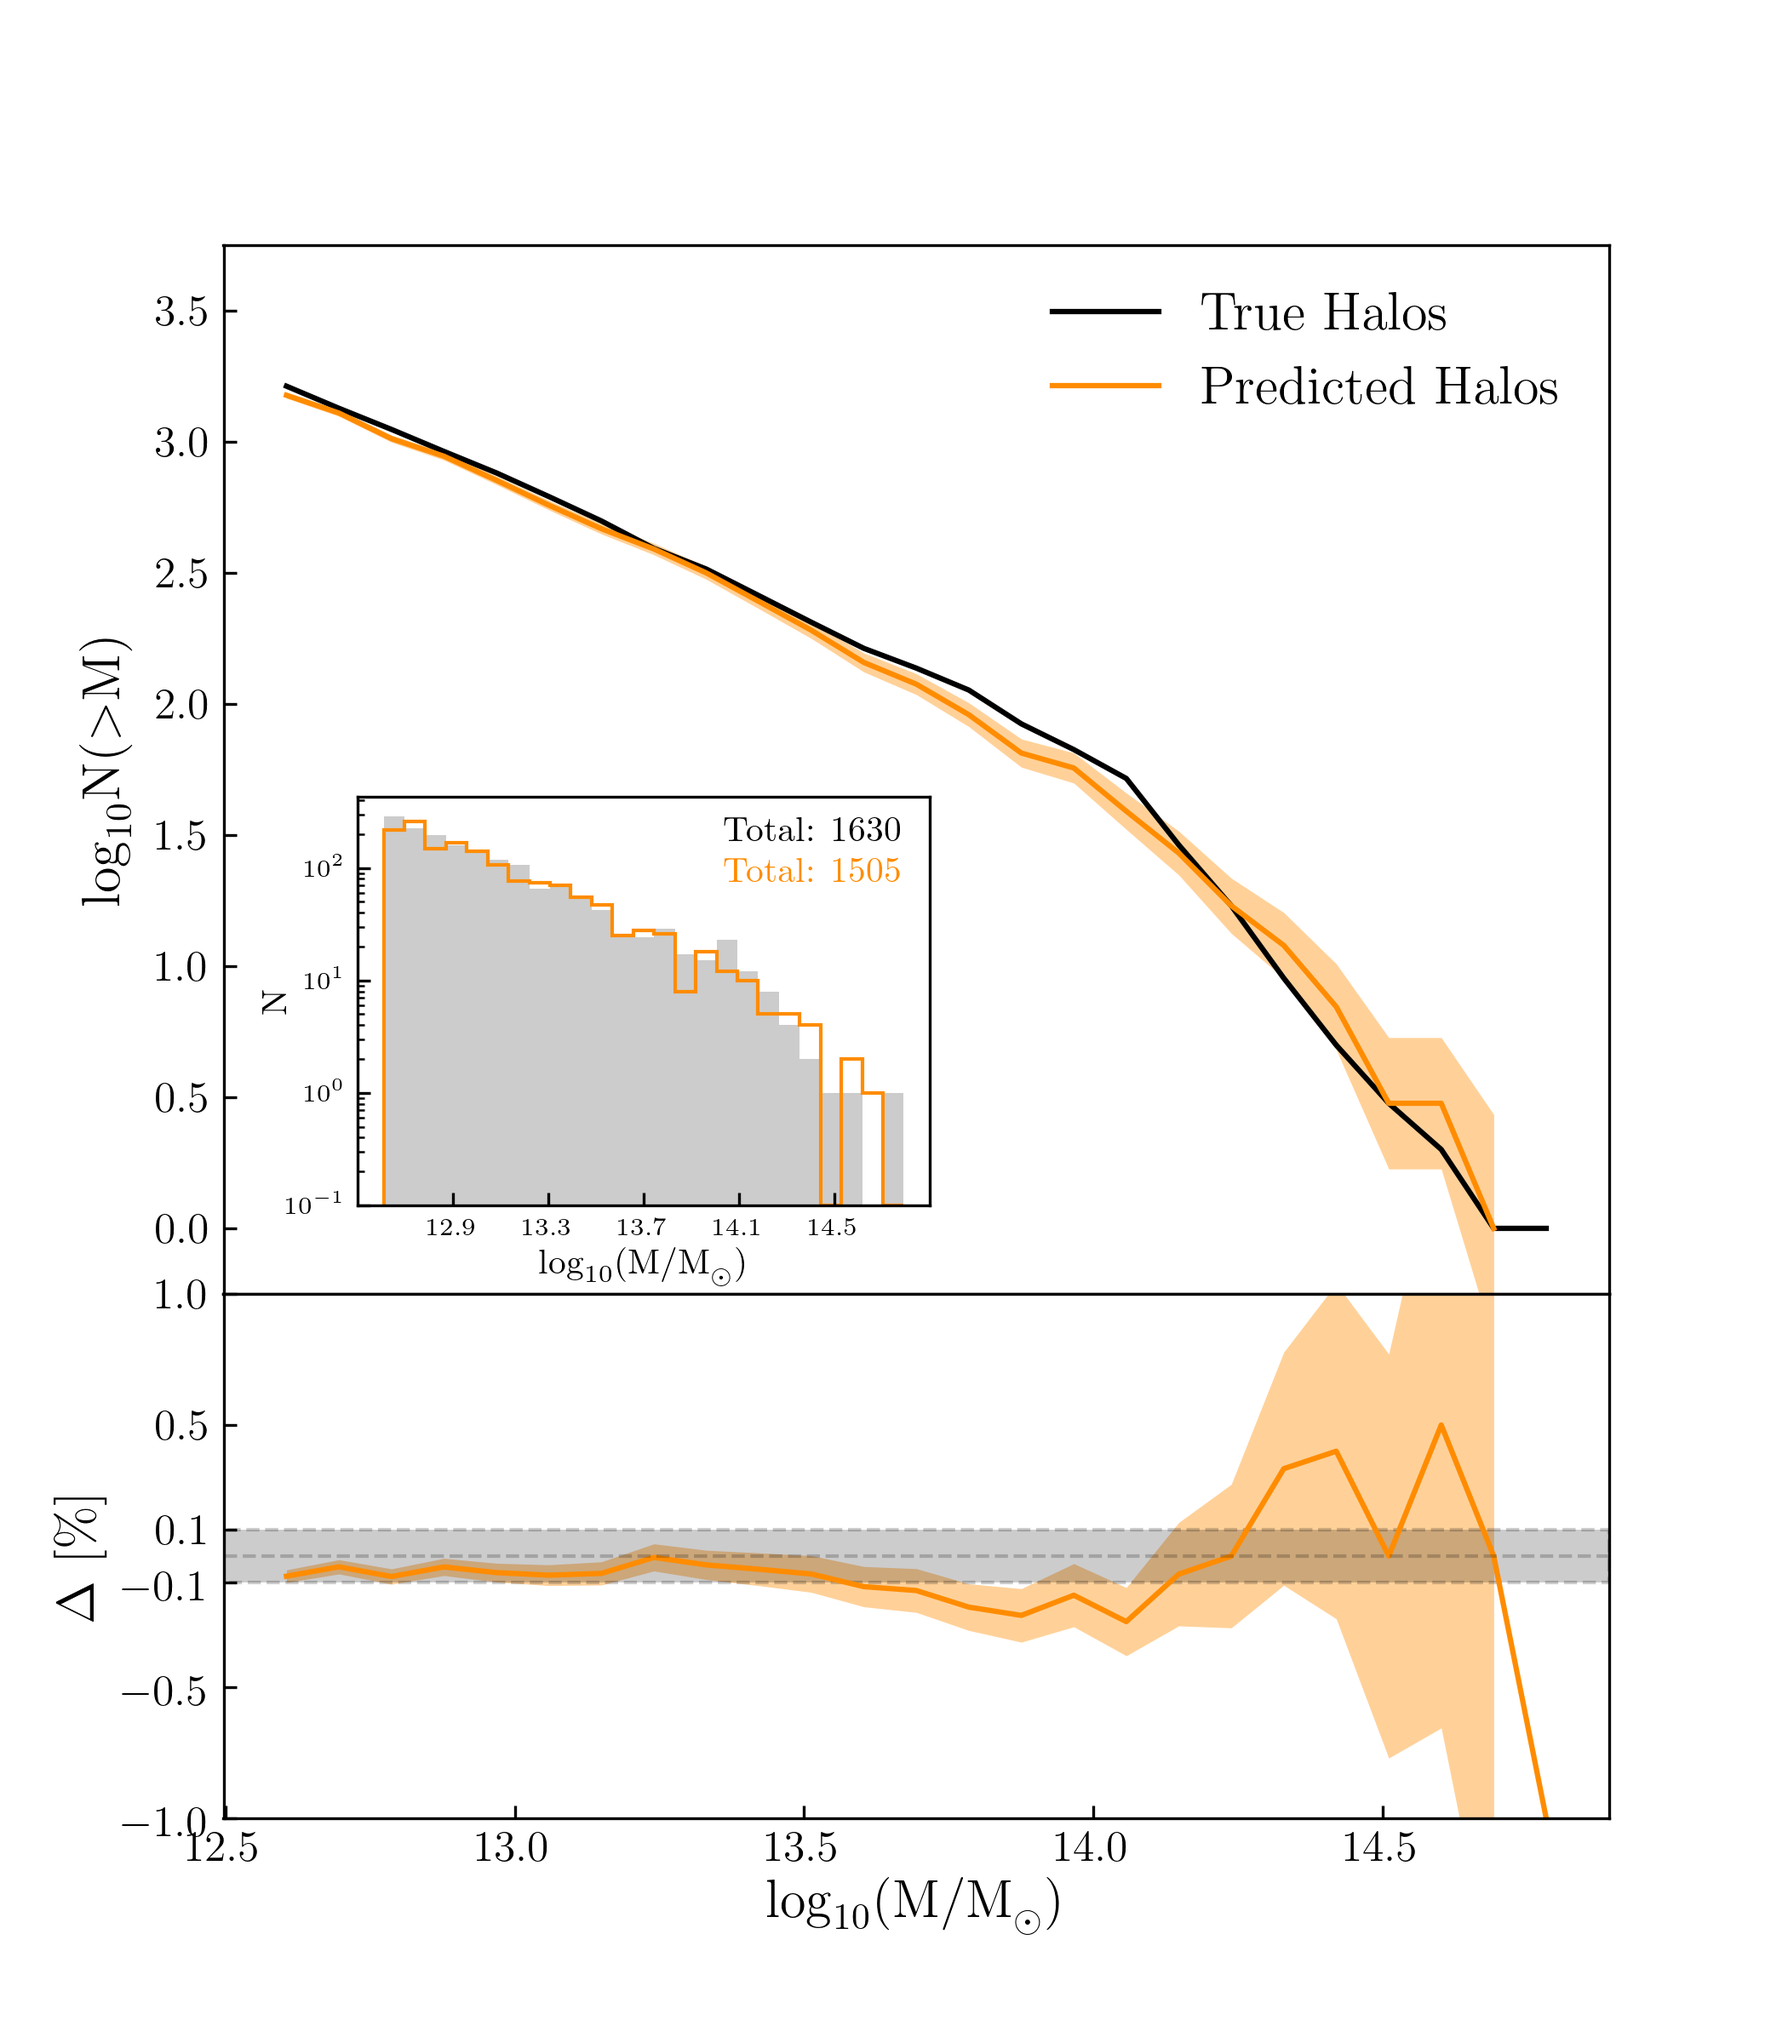
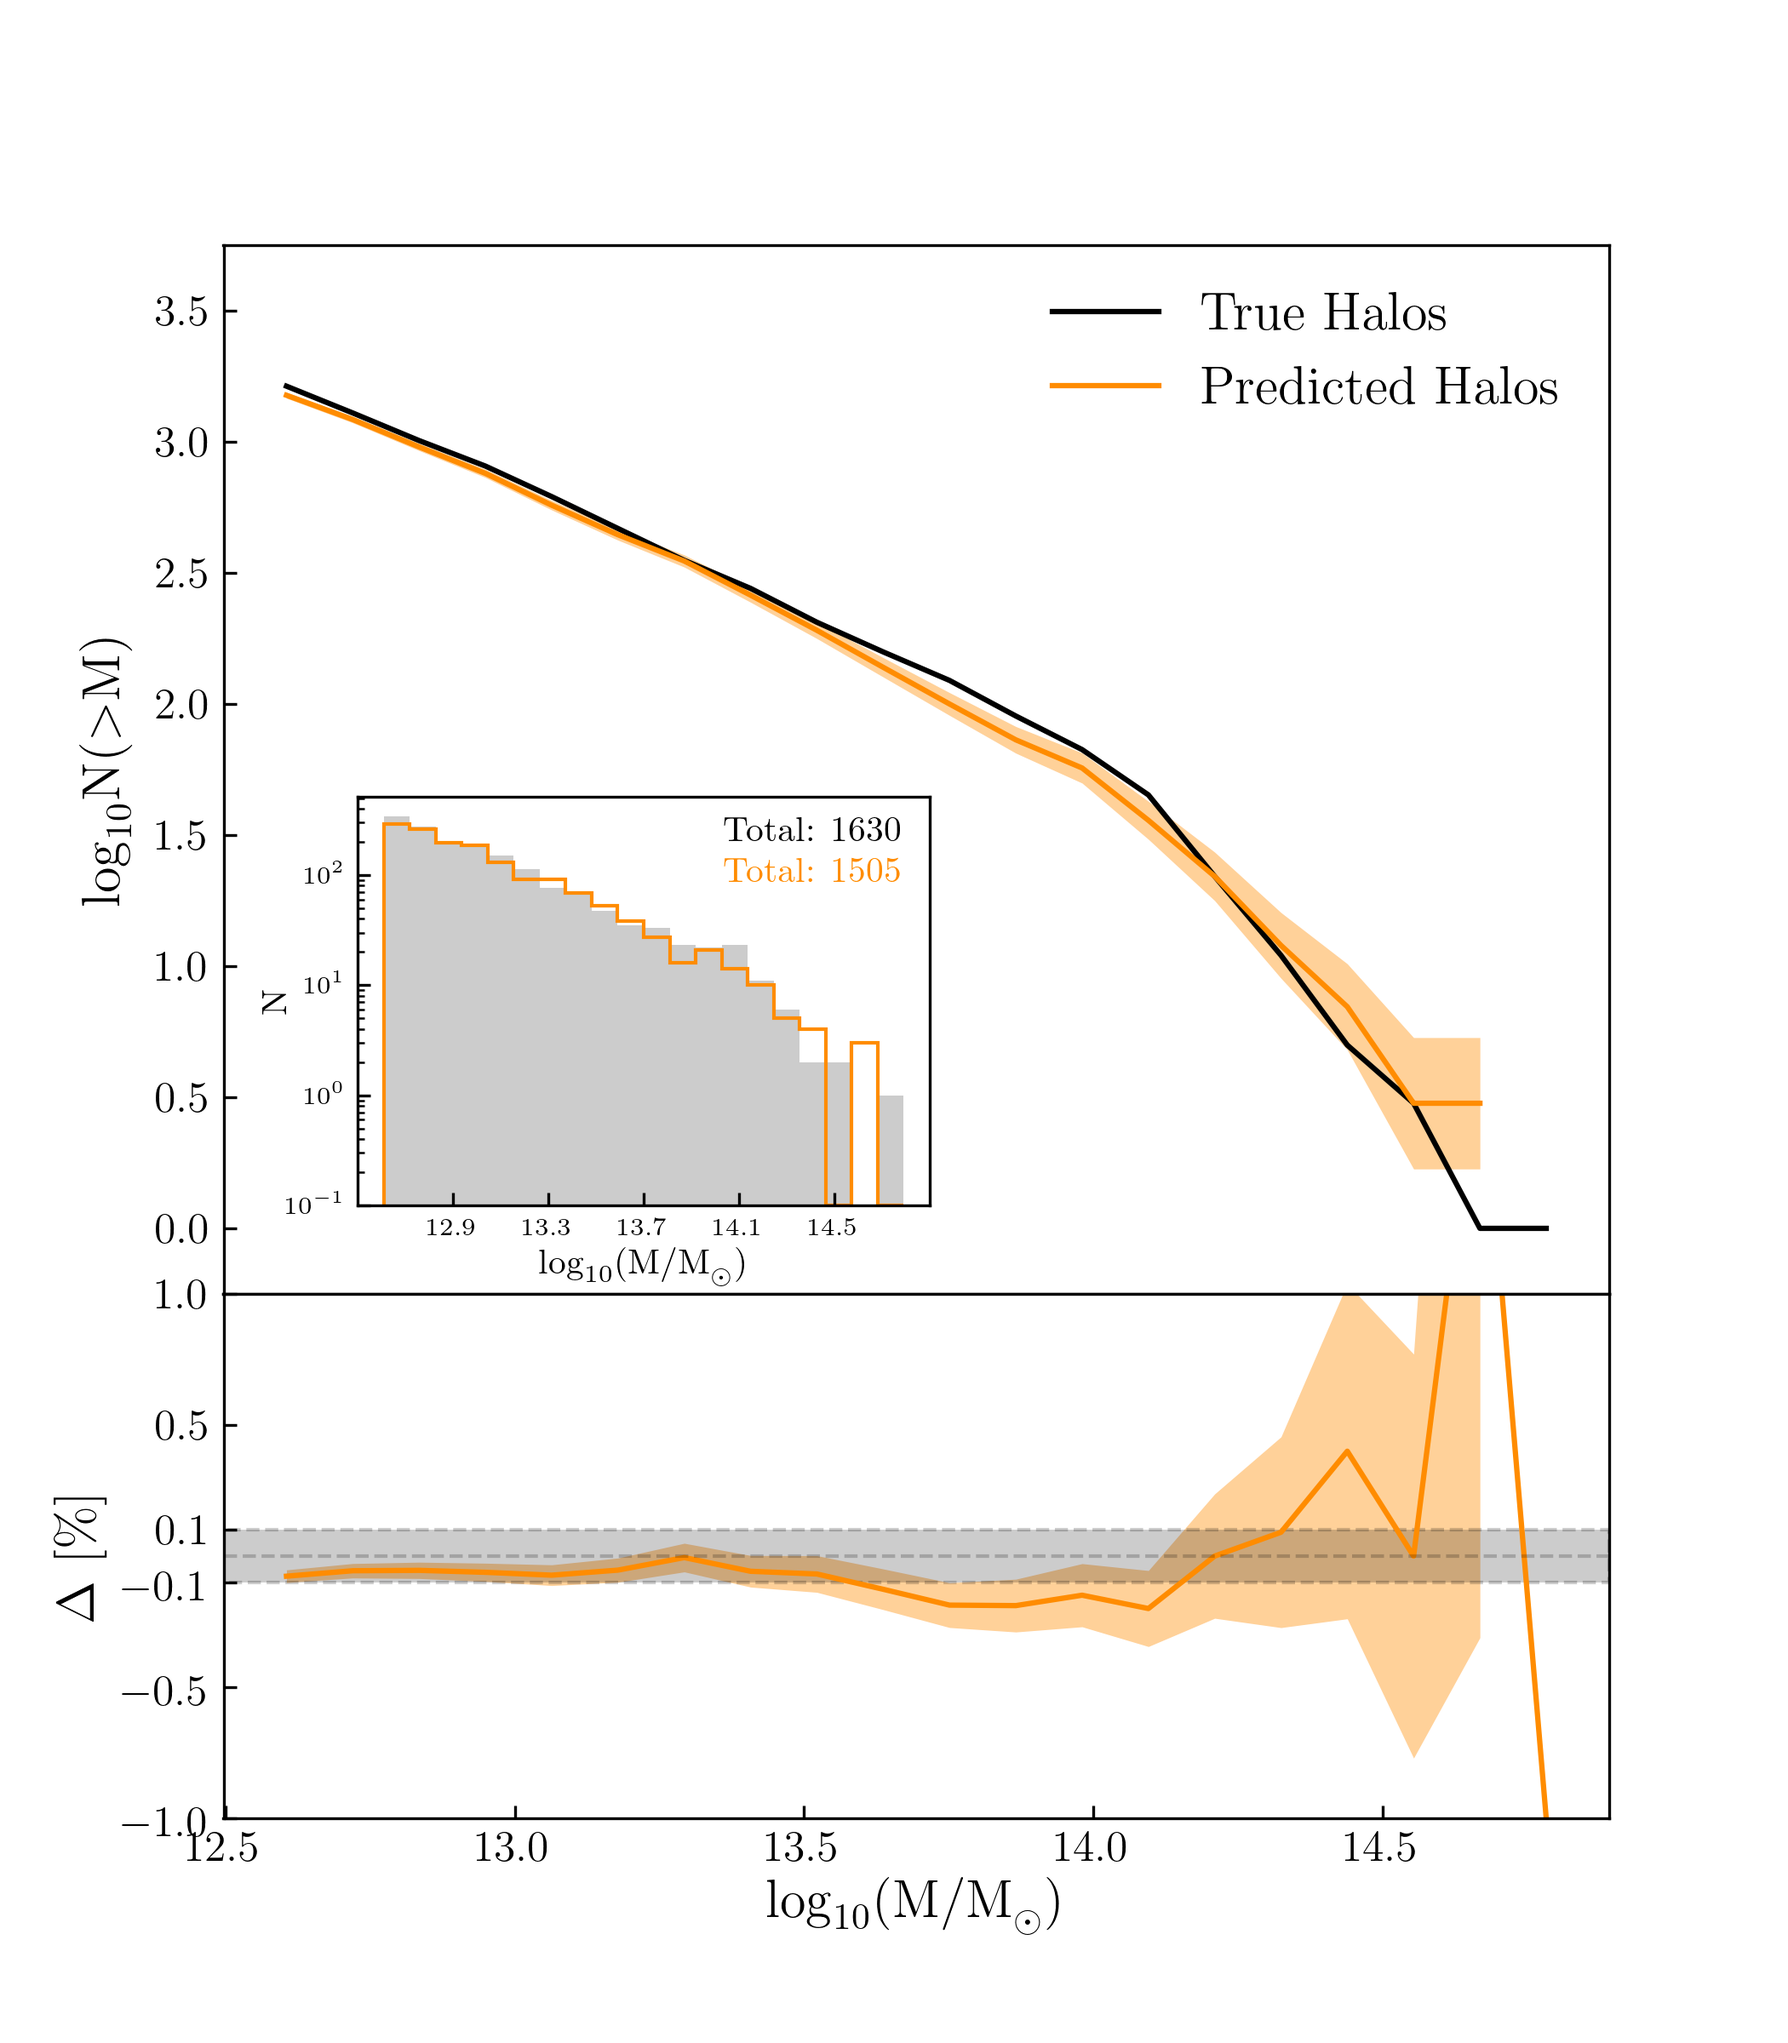
Found better configuration for adaptive watershed + started with overplot

diff --git a/analysis/hmfT/new_approach.py b/analysis/hmfT/new_approach.py
@@ -10,7 +10,7 @@ from analysis.helpers.hmf_functions_revised import find_peak_to_thresh_relation
 
 
 sim = 'T'
-
+"""
 homedir = os.path.dirname(os.getcwd()) + '/'
 predicted_distances = np.load(homedir + 'boxes'+sim+'/prediction'+sim+'.npy')
 raw_masses, peak_vals, contour_fs = find_peak_to_thresh_relation(distance=predicted_distances, sim=sim, homedir=homedir)
@@ -18,20 +18,20 @@ raw_masses, peak_vals, contour_fs = find_peak_to_thresh_relation(distance=predic
 np.save('raw_masses.npy', raw_masses)
 np.save('peak_vals.npy', peak_vals)
 np.save('contour_fs.npy', contour_fs)
-
+"""
 raw_masses = np.load('raw_masses.npy')
 peak_vals = np.load('peak_vals.npy')
 
 where_are_NaNs = np.isnan(peak_vals)
 peak_vals[where_are_NaNs] = 0
-
+"""
 plt.figure()
 for trajectory, rm in zip(peak_vals, raw_masses):
     plt.semilogy(trajectory, rm, linewidth=0.5)
 
 plt.figure()
 print(raw_masses.shape, peak_vals.shape)
-
+"""
 log_masses = np.log10(raw_masses)
 
 

diff --git a/analysis/hmfA/get_final_hmf.py b/analysis/hmfA/get_final_hmf.py
@@ -18,7 +18,7 @@ ps_pred = np.log10(ps_pred)
 print('Number of proto halos after thresholding:', len(ps_pred))
 
 all_sets = np.hstack((ps_pred, halo_sizes))
-no_bins = 25
+no_bins = 20
 bins = np.histogram(all_sets, range=(all_sets.min(), all_sets.max()), bins=no_bins)[1]
 bins_inset = np.histogram(all_sets - np.log10(64.0/5.66e10),
                           range=((all_sets-np.log10(64.0/5.66e10)).min(), (all_sets-np.log10(64.0/5.66e10)).max()),

diff --git a/analysis/hmfT/get_final_hmf.py b/analysis/hmfT/get_final_hmf.py
@@ -21,7 +21,7 @@ print('Number of proto halos after thresholding:', len(ps_pred))
 
 
 all_sets = np.hstack((ps_pred, halo_sizes))
-no_bins = 25
+no_bins = 20
 bins = np.histogram(all_sets, range=(all_sets.min(), all_sets.max()), bins=no_bins)[1]
 bins_inset = np.histogram(all_sets - np.log10(64.0/5.66e10),
                           range=((all_sets-np.log10(64.0/5.66e10)).min(), (all_sets-np.log10(64.0/5.66e10)).max()),

diff --git a/analysis/helpers/hmf_functions_revised.py b/analysis/helpers/hmf_functions_revised.py
@@ -25,10 +25,12 @@ def f(mean_distances, raw_masses):
             s = (y1 - y0) / (x1 - x0)
             q = y1 - s * x1
             return s * p + q
-        else:
+        else:# p < x2:
             s = (y2 - y1) / (x2 - x1)
             q = y2 - s * x2
             return s * p + q
+        #else:
+        #    return 5.6
 
     x = np.linspace(0.5, 5.75, 1e3)
     y = np.asarray([fit(m) for m in x])
